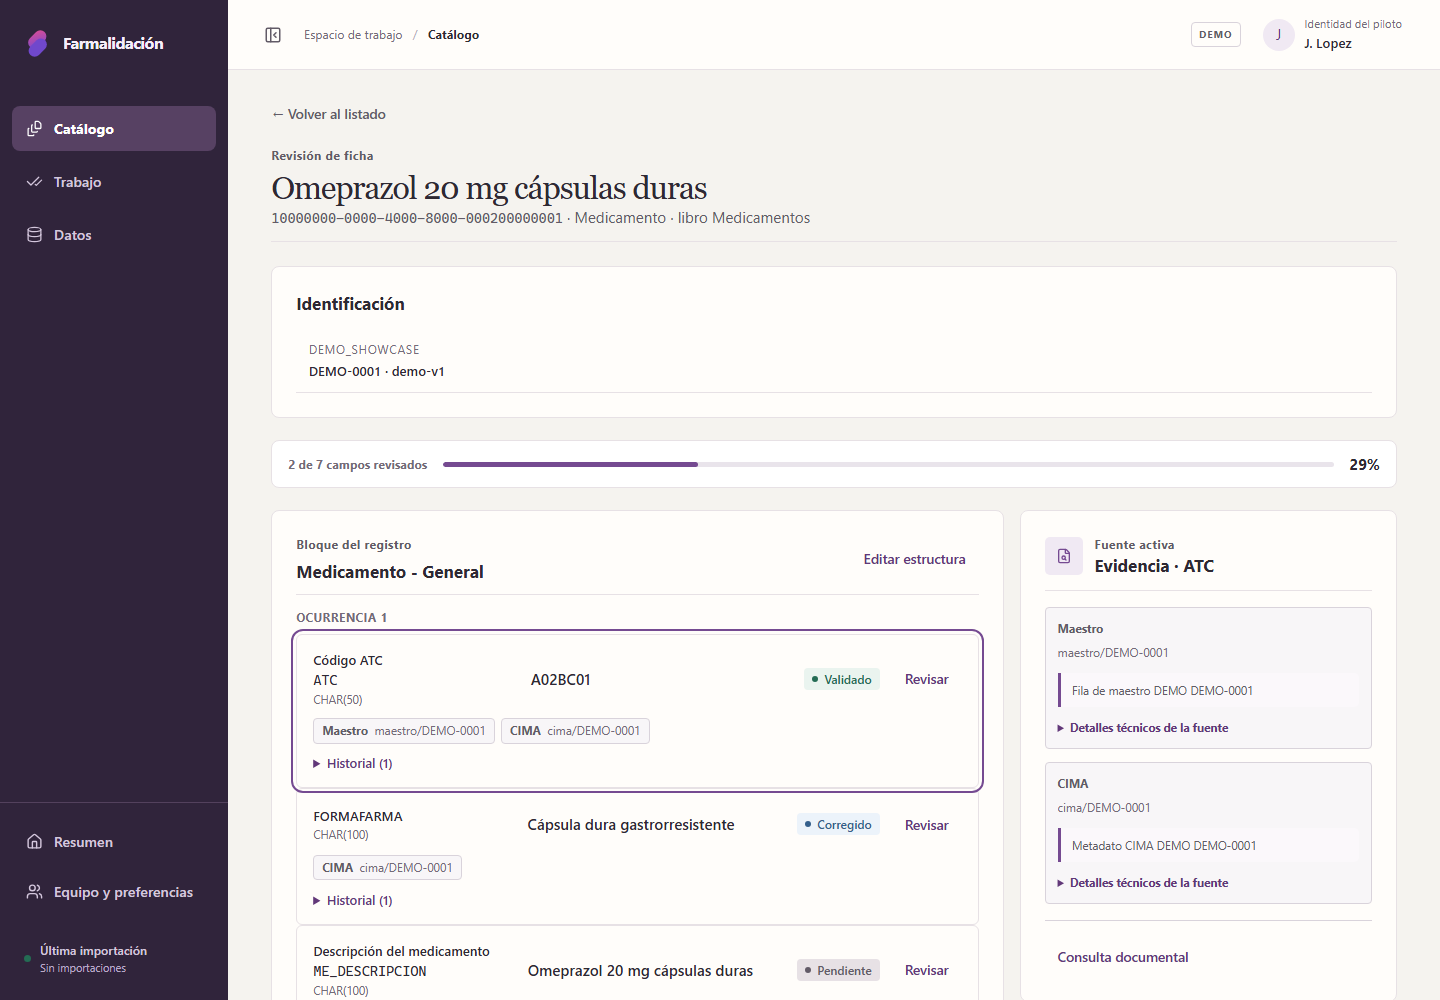
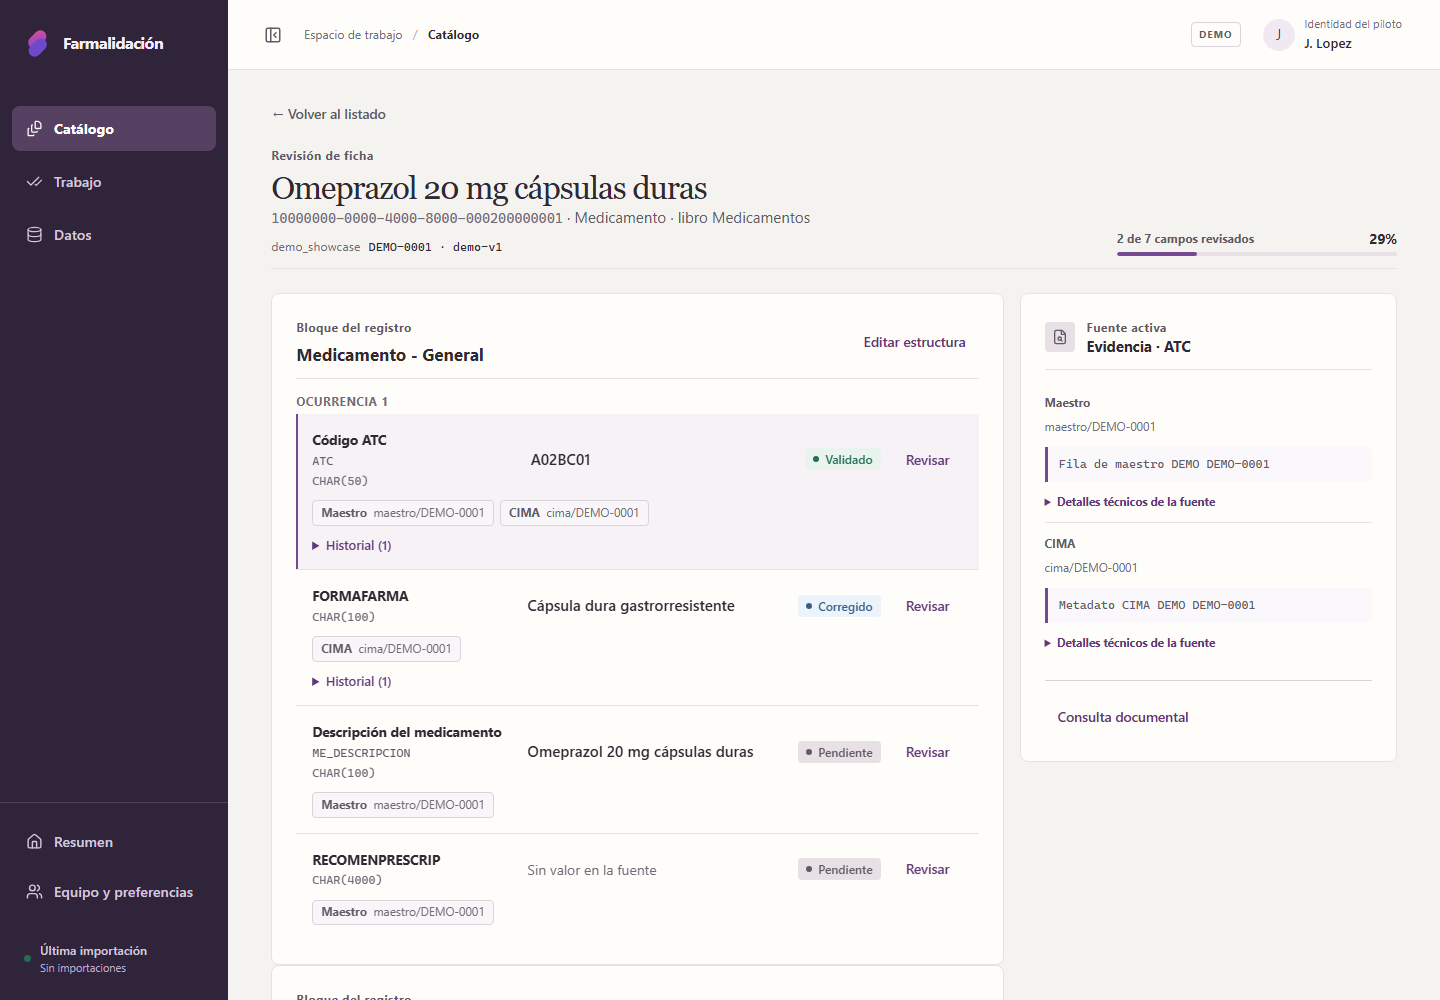
Normalizar controles, recuadros y pestañas en toda la aplicación
Medidos en todas las rutas, los botones tenían 40 px junto a campos de
35 px, los recuadros cuatro rellenos distintos (12–24 px) y había dos
estilos de pestaña. Ahora botones, campos y desplegables comparten
--control-height (36 px cómoda, 32 px compacta; 28 px los pequeños),
todos los recuadros usan --panel-pad, las pestañas de sección y de
ficha son la misma pieza y los títulos de sección usan la letra de
títulos.

diff --git a/validador-fichas-tecnicas-repo-kit/frontend/src/ui/components.css b/validador-fichas-tecnicas-repo-kit/frontend/src/ui/components.css
@@ -240,3 +240,40 @@ code, kbd, .mono { font-family: var(--font-mono); font-size: var(--text-code); f
 .app-shell .topbar__actions { gap: var(--space-4); }
 .app-shell .topbar__actions .mode-chip { margin: 0; padding: 2px var(--space-2); border: 1px solid color-mix(in srgb, var(--warn) 40%, transparent); border-radius: var(--radius-small); color: var(--warn); background: var(--warn-soft); font-size: var(--text-xs); letter-spacing: .08em; }
 .app-shell .account-summary { padding-left: var(--space-4); border-left: 1px solid var(--line-soft); }
+
+/* ══ Normalización transversal ═══════════════════════════════════════════
+   Medido en todas las rutas: 15 variantes de botón, campos de 35 px junto a
+   botones de 40 px, cuatro rellenos de recuadro y dos estilos de pestaña.
+   Desde aquí hay una sola medida para cada cosa. */
+
+/* Controles: misma altura para botón, campo y desplegable. */
+.app-shell .button,
+.app-shell :is(input[type='text'], input[type='search'], input[type='number'], input[type='date'], input:not([type]), select) {
+  height: var(--control-height);
+  min-height: var(--control-height);
+}
+.app-shell .button { padding-block: 0; }
+.app-shell :is(.button--sm, .queue-list__actions .button, .catalog-review-cell .button, .button.back) { height: var(--control-height-sm); min-height: var(--control-height-sm); }
+.app-shell .button--icon { width: var(--control-height); padding: 0; }
+.app-shell textarea { min-height: calc(var(--control-height) * 2); padding: var(--space-2) var(--space-3); border-color: var(--line); border-radius: var(--radius-control); background-color: var(--surface); font-size: var(--text-sm); }
+
+/* Recuadros: un único relleno, que la densidad ajusta. */
+.app-shell :is(.panel, .filter-panel, .queue-add) { padding: var(--panel-pad); border-color: var(--line-soft); border-radius: var(--radius); box-shadow: none; }
+.app-shell .state { padding: var(--panel-pad); }
+.app-shell .panel__head { margin-bottom: var(--space-4); padding-bottom: var(--space-3); border-bottom: 1px solid var(--line-soft); }
+.app-shell .panel > h2:first-child, .app-shell .panel__head h2 { font-size: var(--text-lg); }
+
+/* Pestañas: las de sección (enlaces) y las de ficha (botones) son la misma pieza. */
+.app-shell :is(.section-workspace__nav ul, .workspace-tabs__nav) { display: flex; gap: var(--space-5); margin: 0; padding: 0; border: 0; border-bottom: 1px solid var(--line); background: transparent; }
+.app-shell :is(.section-workspace__nav a, .workspace-tabs__nav [role='tab']) {
+  display: inline-flex; align-items: center; height: 40px; min-height: 0; margin-bottom: -1px; padding: 0 2px;
+  border: 0; border-bottom: 2px solid transparent; border-radius: 0; color: var(--ink-soft); background: transparent;
+  font: inherit; font-size: var(--text-sm); font-weight: var(--weight-medium); text-decoration: none; white-space: nowrap; cursor: pointer;
+}
+.app-shell :is(.section-workspace__nav a, .workspace-tabs__nav [role='tab']):hover { color: var(--ink); }
+.app-shell :is(.section-workspace__nav a[aria-current='page'], .workspace-tabs__nav [role='tab'][aria-selected='true']) { border-bottom-color: var(--accent-fill); color: var(--ink); background: transparent; font-weight: var(--weight-semibold); }
+.app-shell :is(.button--sm, .queue-list__actions .button, .catalog-review-cell .button, .button.back) { padding-inline: var(--space-2); font-size: var(--text-xs); }
+.app-shell .roadmap__toggle { min-height: var(--control-height-sm); padding-block: var(--space-1); font-size: var(--text-sm); }
+
+/* Títulos de sección dentro de una página: misma voz que «Maestros Excel». */
+.app-shell .page-header h2 { margin: 0; font-family: var(--font-display); font-size: var(--text-xl); font-weight: var(--weight-regular); letter-spacing: -.01em; }

diff --git a/validador-fichas-tecnicas-repo-kit/frontend/src/screens/work.css b/validador-fichas-tecnicas-repo-kit/frontend/src/screens/work.css
@@ -4,7 +4,6 @@
   grid-template-columns: minmax(220px, 1fr) minmax(140px, 220px) auto auto;
   align-items: end;
   gap: var(--space-3);
-  padding: var(--space-3) var(--space-4);
 }
 .app-shell .queue-add .queue-toolbar__title { display: inline-flex; align-items: center; gap: var(--space-2); min-height: 34px; color: var(--ink); font-size: var(--text-sm); font-weight: var(--weight-semibold); white-space: nowrap; grid-column: 1 / -1; }
 .app-shell .queue-add .queue-check { min-height: 34px; font-size: var(--text-sm); }
@@ -23,7 +22,6 @@
 .app-shell .queue-list > li { grid-template-columns: auto minmax(220px, 1fr) 132px minmax(0, 420px); }
 .app-shell .queue-list > li > .badge { justify-self: start; }
 .app-shell .queue-list__actions { gap: var(--space-1); }
-.app-shell .queue-list__actions .button { min-height: 28px; padding: 0 var(--space-2); font-size: var(--text-xs); }
 .app-shell .queue-list__actions .button:last-child { border-color: transparent; color: var(--accent-strong); background: transparent; }
 .app-shell .queue-list__actions .button:last-child:hover { background: var(--accent-soft); }
 

diff --git a/validador-fichas-tecnicas-repo-kit/frontend/src/ui/tokens.css b/validador-fichas-tecnicas-repo-kit/frontend/src/ui/tokens.css
@@ -79,7 +79,9 @@
   --cell-y: 15px;
   --panel-pad: 24px;
   --workspace-gap: 22px;
-  --control-height: 40px;
+  /* Altura común de botones y campos: un botón junto a un campo siempre alinea. */
+  --control-height: 36px;
+  --control-height-sm: 28px;
 
   /* Capas y movimiento */
   --z-sticky: 10;
@@ -99,7 +101,7 @@
   --cell-y: 9px;
   --panel-pad: 16px;
   --workspace-gap: 14px;
-  --control-height: 34px;
+  --control-height: 32px;
 }
 
 :root[data-theme='dark'] {
